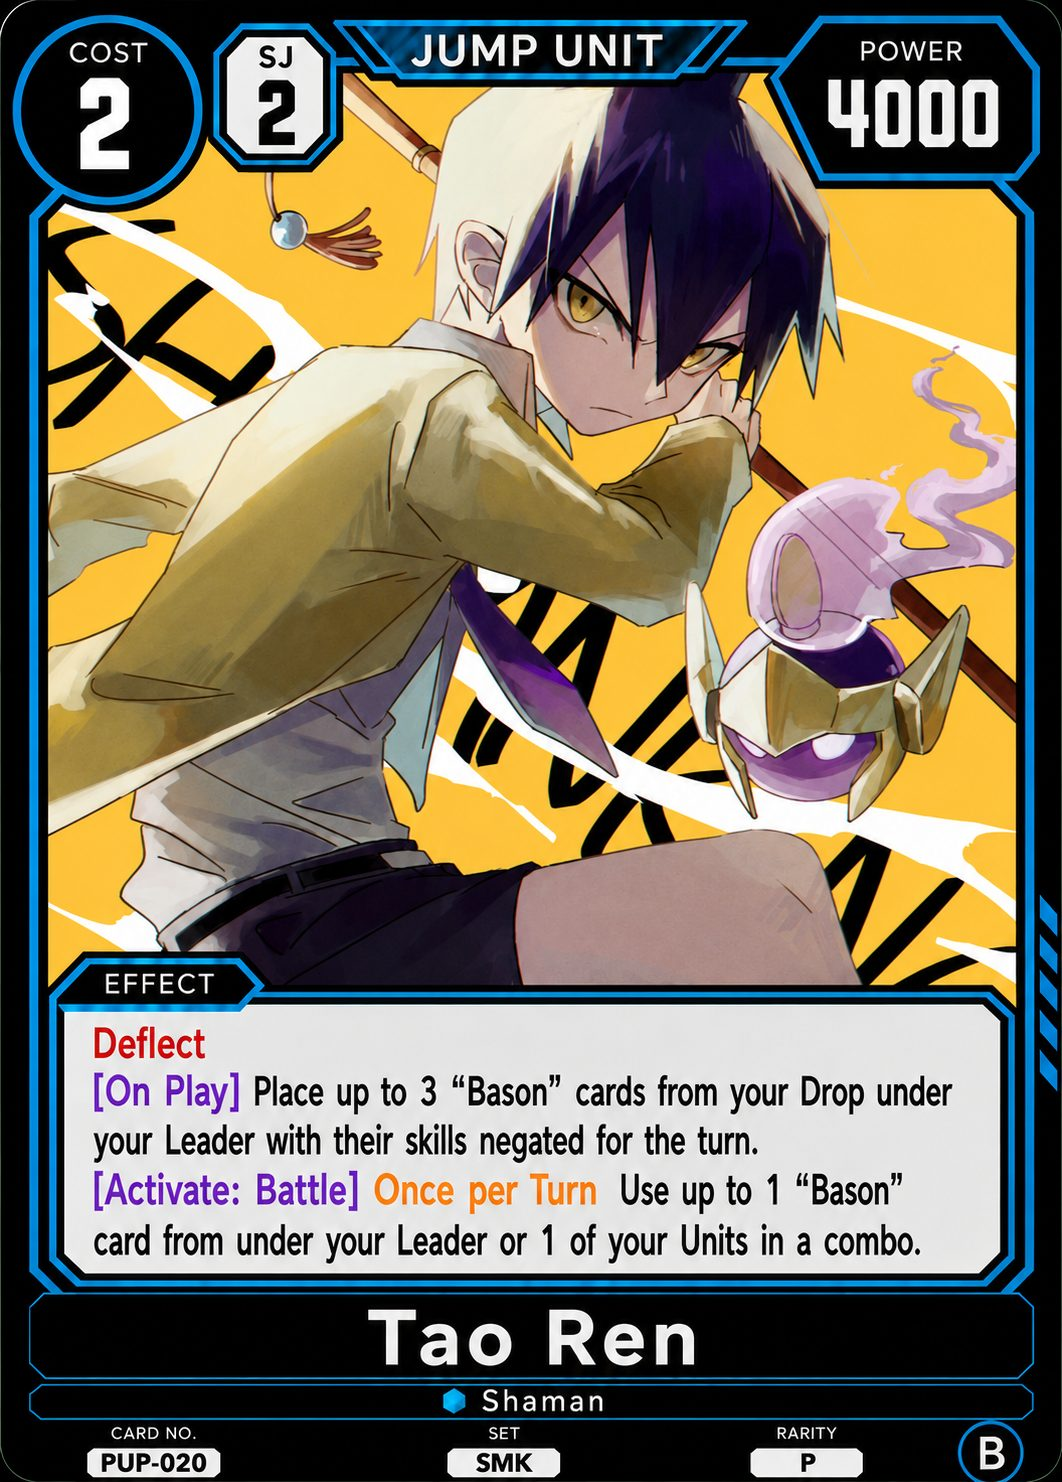
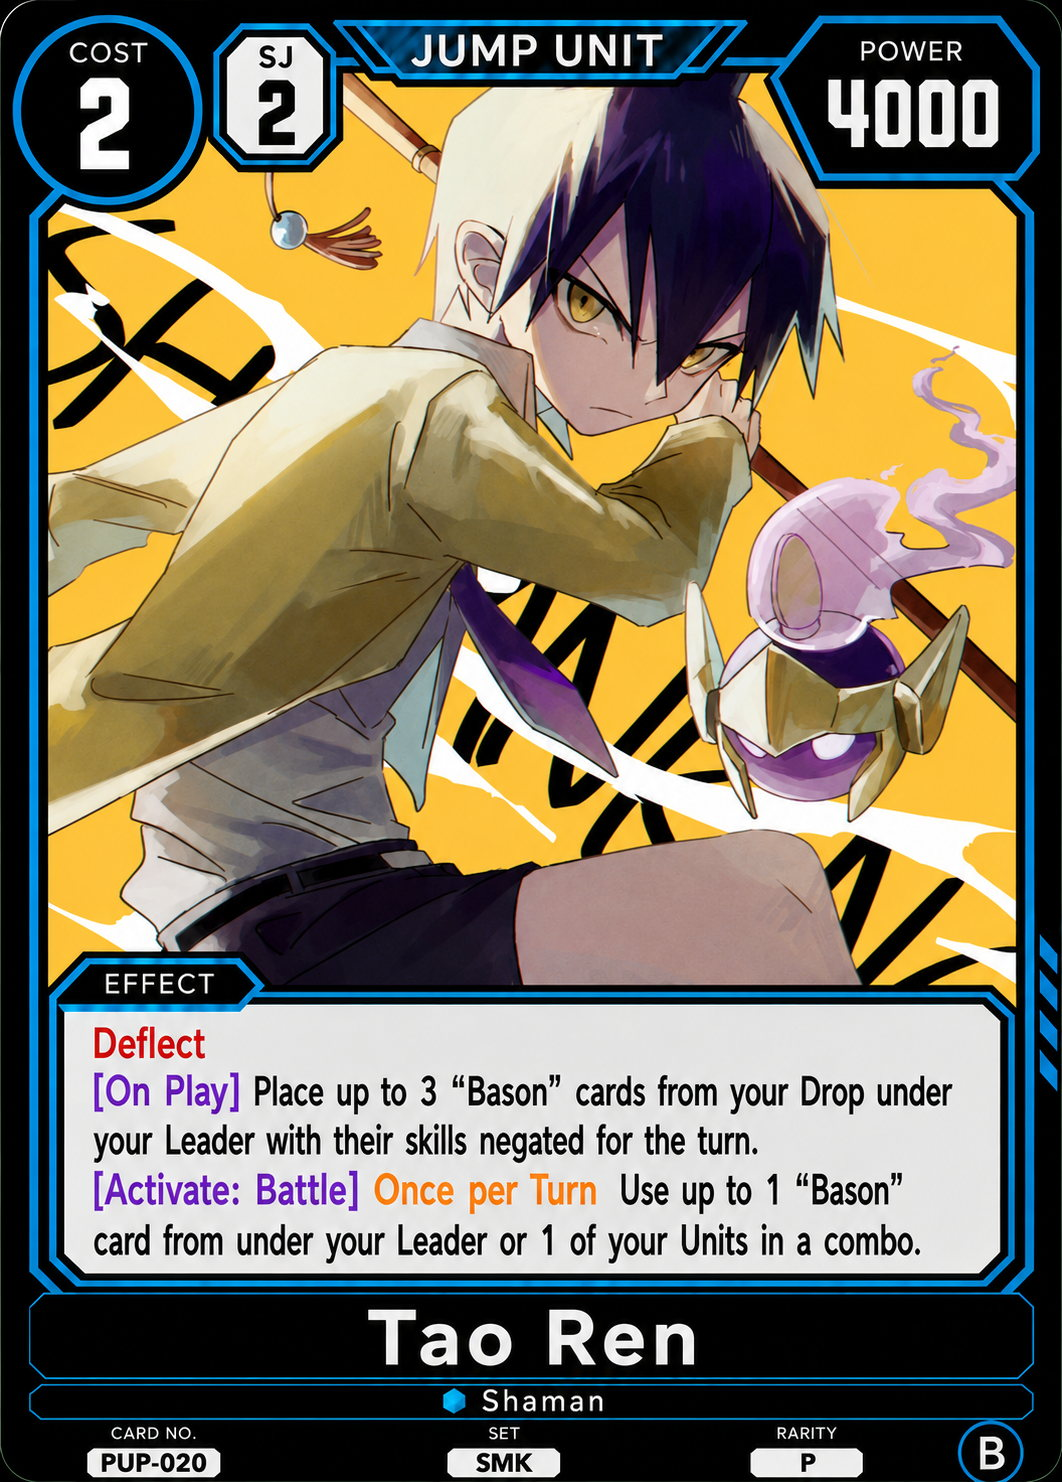
Add ST5-128 Blue SMK support and refresh PUP-020

Changed region(s): [[0.9944, 0.6208, 1.0, 0.6518], [0.9633, 0.5897, 0.9944, 0.6208], [0.404, 0.031, 0.435, 0.0621]]

diff --git a/card-text-data.js b/card-text-data.js
@@ -14060,6 +14060,29 @@ window.SJTCG_CARD_TEXT = {
     "orientation": "Portrait",
     "counter": "1000"
   },
+  "ST5-128": {
+    "card_no": "ST5-128",
+    "name": "Asakura Yoh",
+    "color": "Blue",
+    "cost": "2",
+    "sj_cost": "1",
+    "life": "",
+    "power": "3000",
+    "counter": "",
+    "traits": "Shaman",
+    "set": "SMK",
+    "rarity": "R",
+    "bottom_right_circle": "B",
+    "effect": "Barrier\n[Opponent's Turn] If 1 of your Units would be removed from your field by an Opponent's skill: You may instead return all cards from under it to your hand instead. Then, remove this card from the game.\n[On Play] Add up to 1 card from under your Leader or 1 of your Units to your hand; place up to 1 card from your hand under your Leader or 1 of your Units.",
+    "effect_html": "<span class=\"kw kw-red\" title=\"Barrier\">Barrier</span><br><span class=\"kw kw-purple\" title=\"Timing window\">[Opponent&#39;s Turn]</span> If 1 of your Units would be removed from your field by an Opponent&#39;s skill: You may instead return all cards from under it to your hand instead. Then, remove this card from the game.<br><span class=\"kw kw-purple\" title=\"Timing window\">[On Play]</span> Add up to 1 card from under your Leader or 1 of your Units to your hand; place up to 1 card from your hand under your Leader or 1 of your Units.",
+    "notes": "",
+    "transcription_status": "verified",
+    "release": "ST5",
+    "deck_zone": "JUMP",
+    "card_category": "Main Deck",
+    "deck_limit": 1,
+    "orientation": "Portrait"
+  },
   "EX1-001": {
     "card_no": "EX1-001",
     "name": "Riyo Reaper",

diff --git a/cards-data.js b/cards-data.js
@@ -7362,6 +7362,18 @@ window.SJTCG_CARD_DATA = [
     "imageVersion": "7fbf7d6a66da"
   },
   {
+    "number": "ST5-128",
+    "release": "ST5",
+    "set": "SMK",
+    "color": "Blue",
+    "image": "images/ST5-128.jpg",
+    "deckZone": "JUMP",
+    "cardType": "Main Deck",
+    "deckLimit": 1,
+    "orientation": "Portrait",
+    "imageVersion": "db96a57dc358"
+  },
+  {
     "number": "EX1-001",
     "release": "EX1",
     "set": "GKA",
@@ -11511,7 +11523,7 @@ window.SJTCG_CARD_DATA = [
     "cardType": "Main Deck",
     "deckLimit": 1,
     "orientation": "Portrait",
-    "imageVersion": "b0df2799df0c"
+    "imageVersion": "a6f66b29af36"
   },
   {
     "number": "PUP-021",

diff --git a/index.html b/index.html
@@ -202,8 +202,8 @@
     </article>
   </div>
 
-  <script src="cards-data.js?v=001fd39325e9"></script>
-  <script src="card-text-data.js?v=5dd5f6be8111"></script>
+  <script src="cards-data.js?v=455c0244296e"></script>
+  <script src="card-text-data.js?v=a702b228b659"></script>
   <script src="app.js?v=478c9c2d7b66"></script>
 </body>
 </html>
